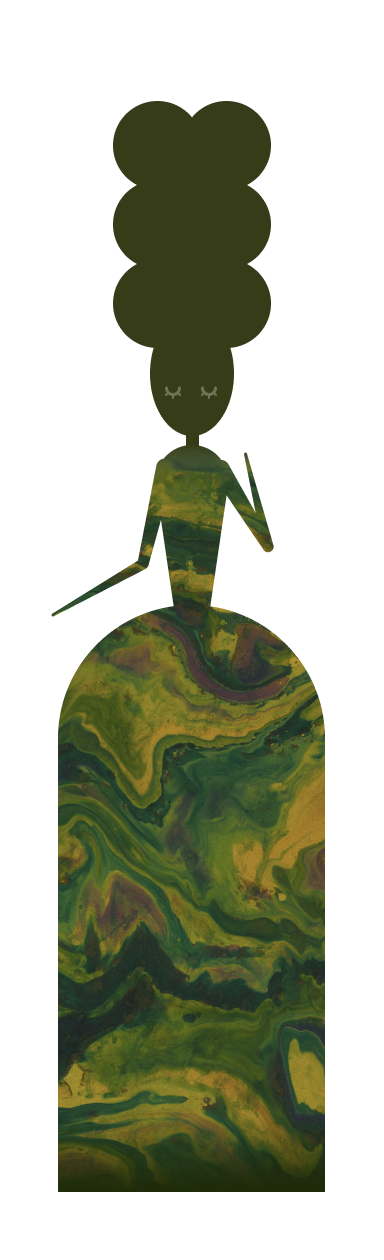
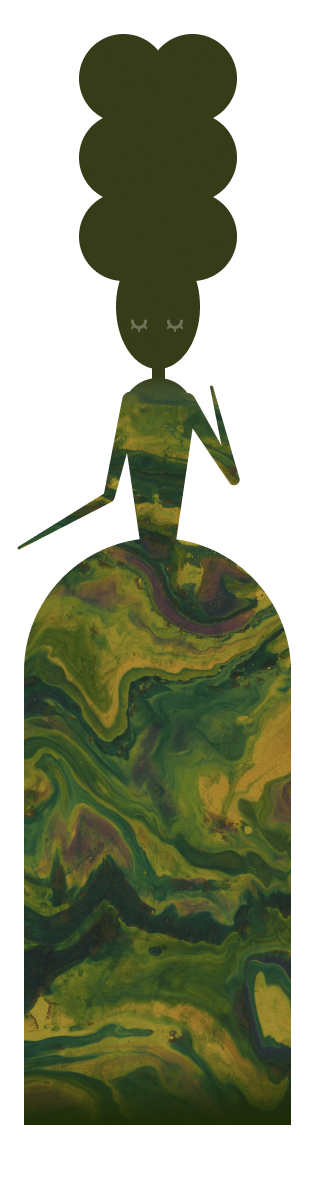
more progress

diff --git a/src/lib/venice/BottomBar/BottomBar.svelte b/src/lib/venice/BottomBar/BottomBar.svelte
@@ -1,0 +1,55 @@
+<div class="container">
+	<button class="confirm-button">Confirm</button>
+	<!-- <div class="bar">
+	</div> -->
+</div>
+
+<style>
+	.container {
+		--background-base-color: #1e2b08;
+		--button-height: 47px;
+		--margin-bottom: 30px;
+
+		position: sticky;
+		bottom: 0;
+		width: 100%;
+		display: grid;
+		justify-items: center;
+
+		background: linear-gradient(
+			0deg,
+			var(--background-base-color) 0%,
+			var(--background-base-color) calc(var(--button-height) + var(--margin-bottom) + 15px),
+			hsl(from var(--background-base-color) h s l / 0) 100%
+		);
+	}
+
+	/* .bar {
+		margin-left: 40px;
+		margin-right: 40px;
+		margin-bottom: 40px;
+		background-color: #0f2007;
+		height: 60px;
+		border-radius: calc(infinity * 1px);
+	}
+
+	.confirm-button {
+		height: 40px;
+		border-radius: calc(infinity * 1px);
+	} */
+
+	.confirm-button {
+		position: sticky;
+		bottom: 0;
+		margin-left: 30px;
+		margin-right: 30px;
+		margin-bottom: var(--margin-bottom);
+		margin-top: 30px;
+		height: var(--button-height);
+		border-radius: calc(infinity * 1px);
+		padding-inline: 20px;
+		font-weight: 550;
+		background-color: #f0eed7;
+		color: #544f25;
+	}
+</style>

diff --git a/src/routes/+page.svelte b/src/routes/+page.svelte
@@ -1,27 +1,28 @@
 <script lang="ts">
 	import Root from '$lib/Root';
+	import BottomBar from '$lib/venice/BottomBar/BottomBar.svelte';
 	import ParticipantsRow from '$lib/venice/ParticipantsRow';
 	import Rules from '$lib/venice/Rules';
 </script>
 
 <Root>
-	<div class="column">
+	<div class="font">
 		<Rules />
 		<ParticipantsRow />
+		<BottomBar />
 	</div>
-	<button class="confirm-button">Confirm</button>
 </Root>
 
 <style>
-	.column {
-		display: grid;
-		grid-template-rows: auto 1fr;
-		min-height: calc(100dvh + 200px);
-		position: relative;
+	@font-face {
+		font-family: 'Figtree';
+		src: url($lib/Figtree.ttf);
 	}
 
-	.confirm-button {
-		position: sticky;
-		bottom: 0;
+	.font {
+		display: contents;
+		font-family: 'Figtree';
+		font-size: 16px;
+		font-weight: 500;
 	}
 </style>

diff --git a/src/lib/venice/ParticipantsRow/ParticipantsRow.svelte b/src/lib/venice/ParticipantsRow/ParticipantsRow.svelte
@@ -28,11 +28,11 @@
 
 <style>
 	.row {
-		/* display: flex; */
-		/* gap: 200px; */
+		height: 800px;
+		max-width: 1200px;
+		margin-inline: auto;
+
 		position: relative;
-		height: 100%;
-		border: 2px solid salmon;
 		display: grid;
 		grid-template-columns: repeat(5, 1fr);
 		justify-items: center;
@@ -43,8 +43,7 @@
 
 	.pivot {
 		position: relative;
-		width: 10px;
-		height: 10px;
-		background-color: red;
+		width: 0px;
+		height: 0px;
 	}
 </style>

diff --git a/src/lib/venice/Rules/Rules.svelte b/src/lib/venice/Rules/Rules.svelte
@@ -20,20 +20,13 @@
 </div>
 
 <style>
-	@font-face {
-		font-family: 'Figtree';
-		src: url($lib/venice/Figtree.ttf);
-	}
-
 	.root {
-		font-family: 'Figtree';
 		color: #f0eed7;
-		font-size: 16px;
 		line-height: 1.6;
-		font-weight: 500;
-		padding: 40px;
-		max-width: 600px;
-		padding-bottom: unset;
+		padding: 60px;
+		max-width: 700px;
+		padding-bottom: 30px;
+		margin-inline: auto;
 	}
 
 	p,

diff --git a/src/lib/venice/ParticipantsRow/Participant.svelte b/src/lib/venice/ParticipantsRow/Participant.svelte
@@ -42,7 +42,7 @@
 		bottom: 0;
 		transform: translateX(-50%);
 		height: var(--container-height);
-		aspect-ratio: 384 / 1260;
+		aspect-ratio: 315 / 1193;
 
 		background-size: contain;
 		background-position: center;

diff --git a/src/lib/Root/reset.css b/src/lib/Root/reset.css
@@ -28,4 +28,11 @@ button {
 	padding: 0;
 	margin: 0;
 	display: block;
+	font-family: inherit;
+	font-size: 100%;
+	line-height: 1.15;
+	text-transform: none;
+	border: none;
+	outline: none;
+	background: none;
 }
